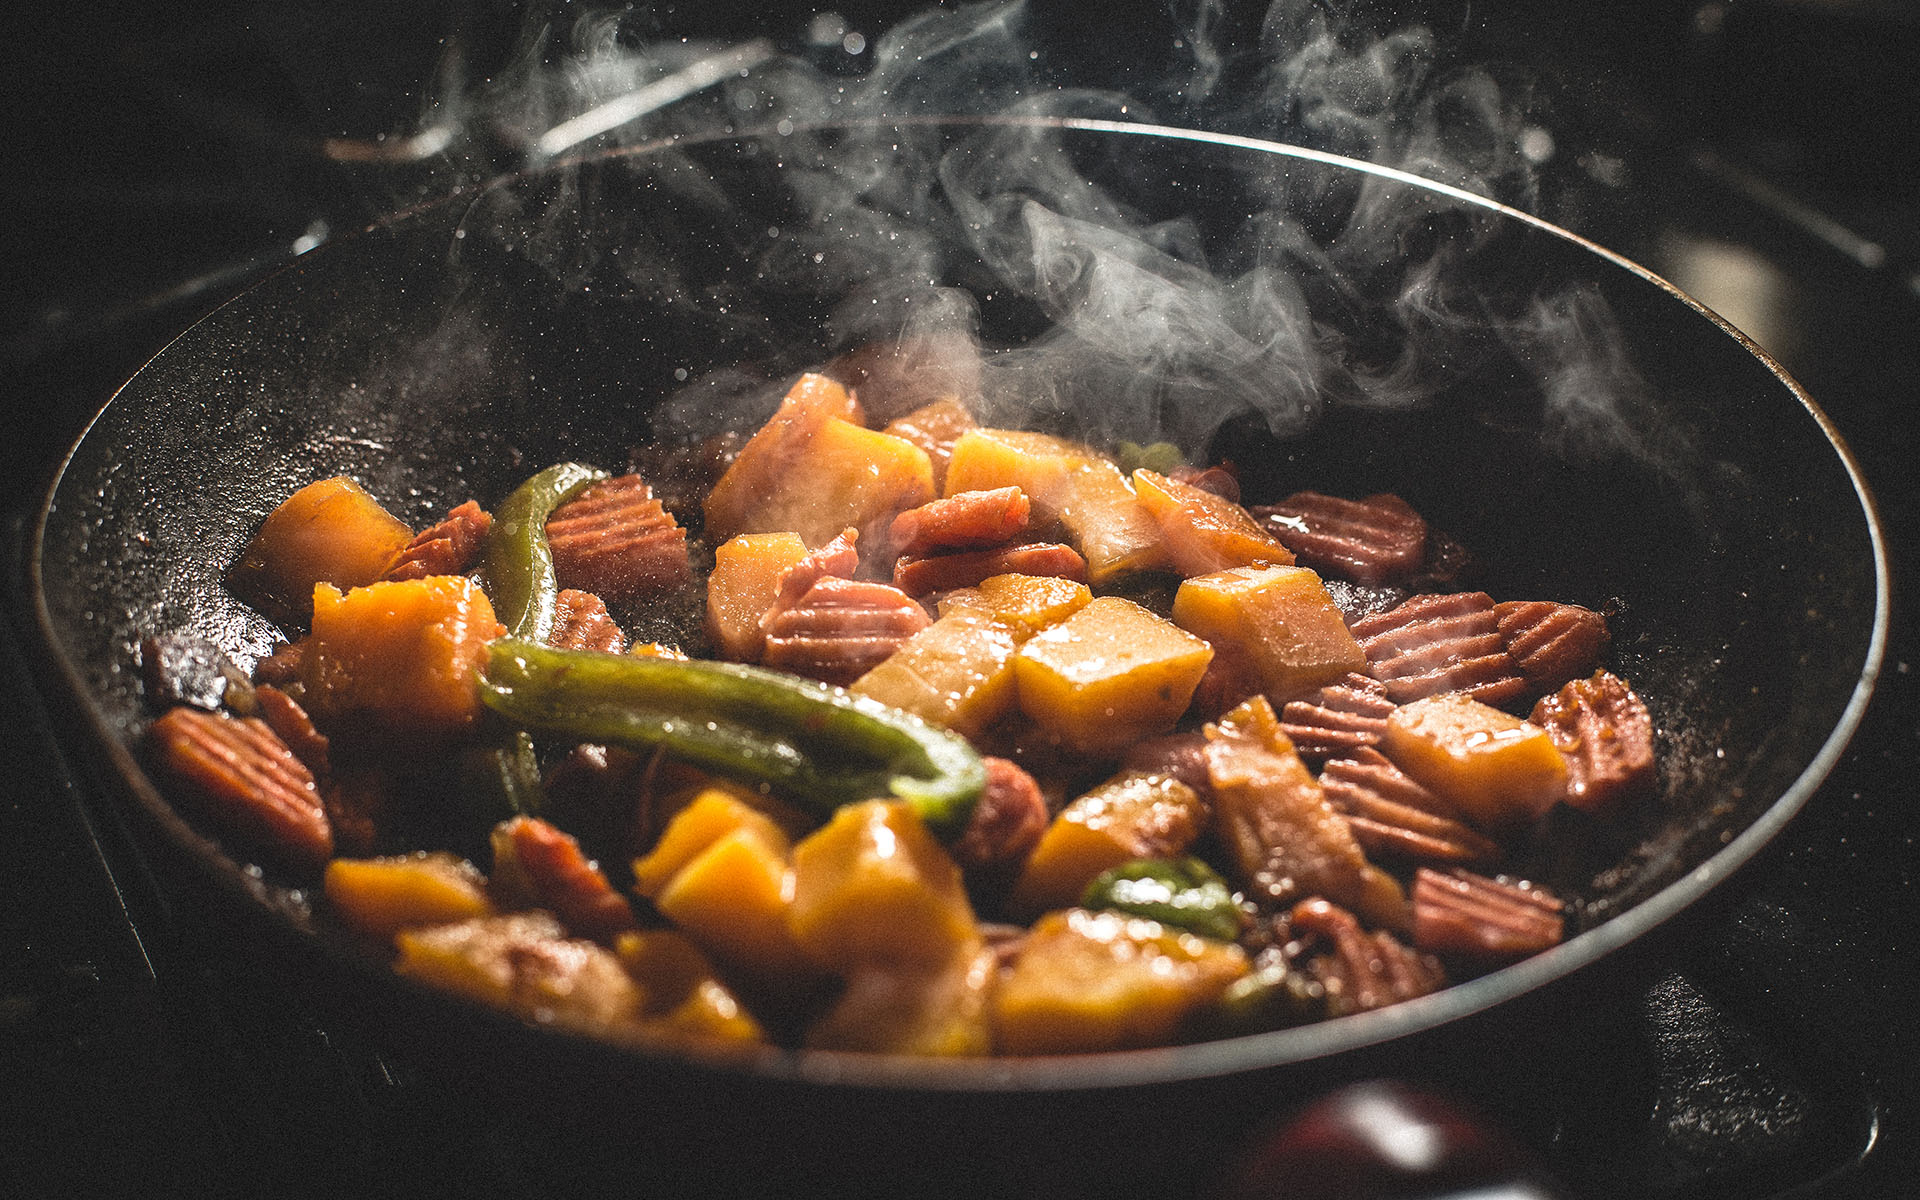
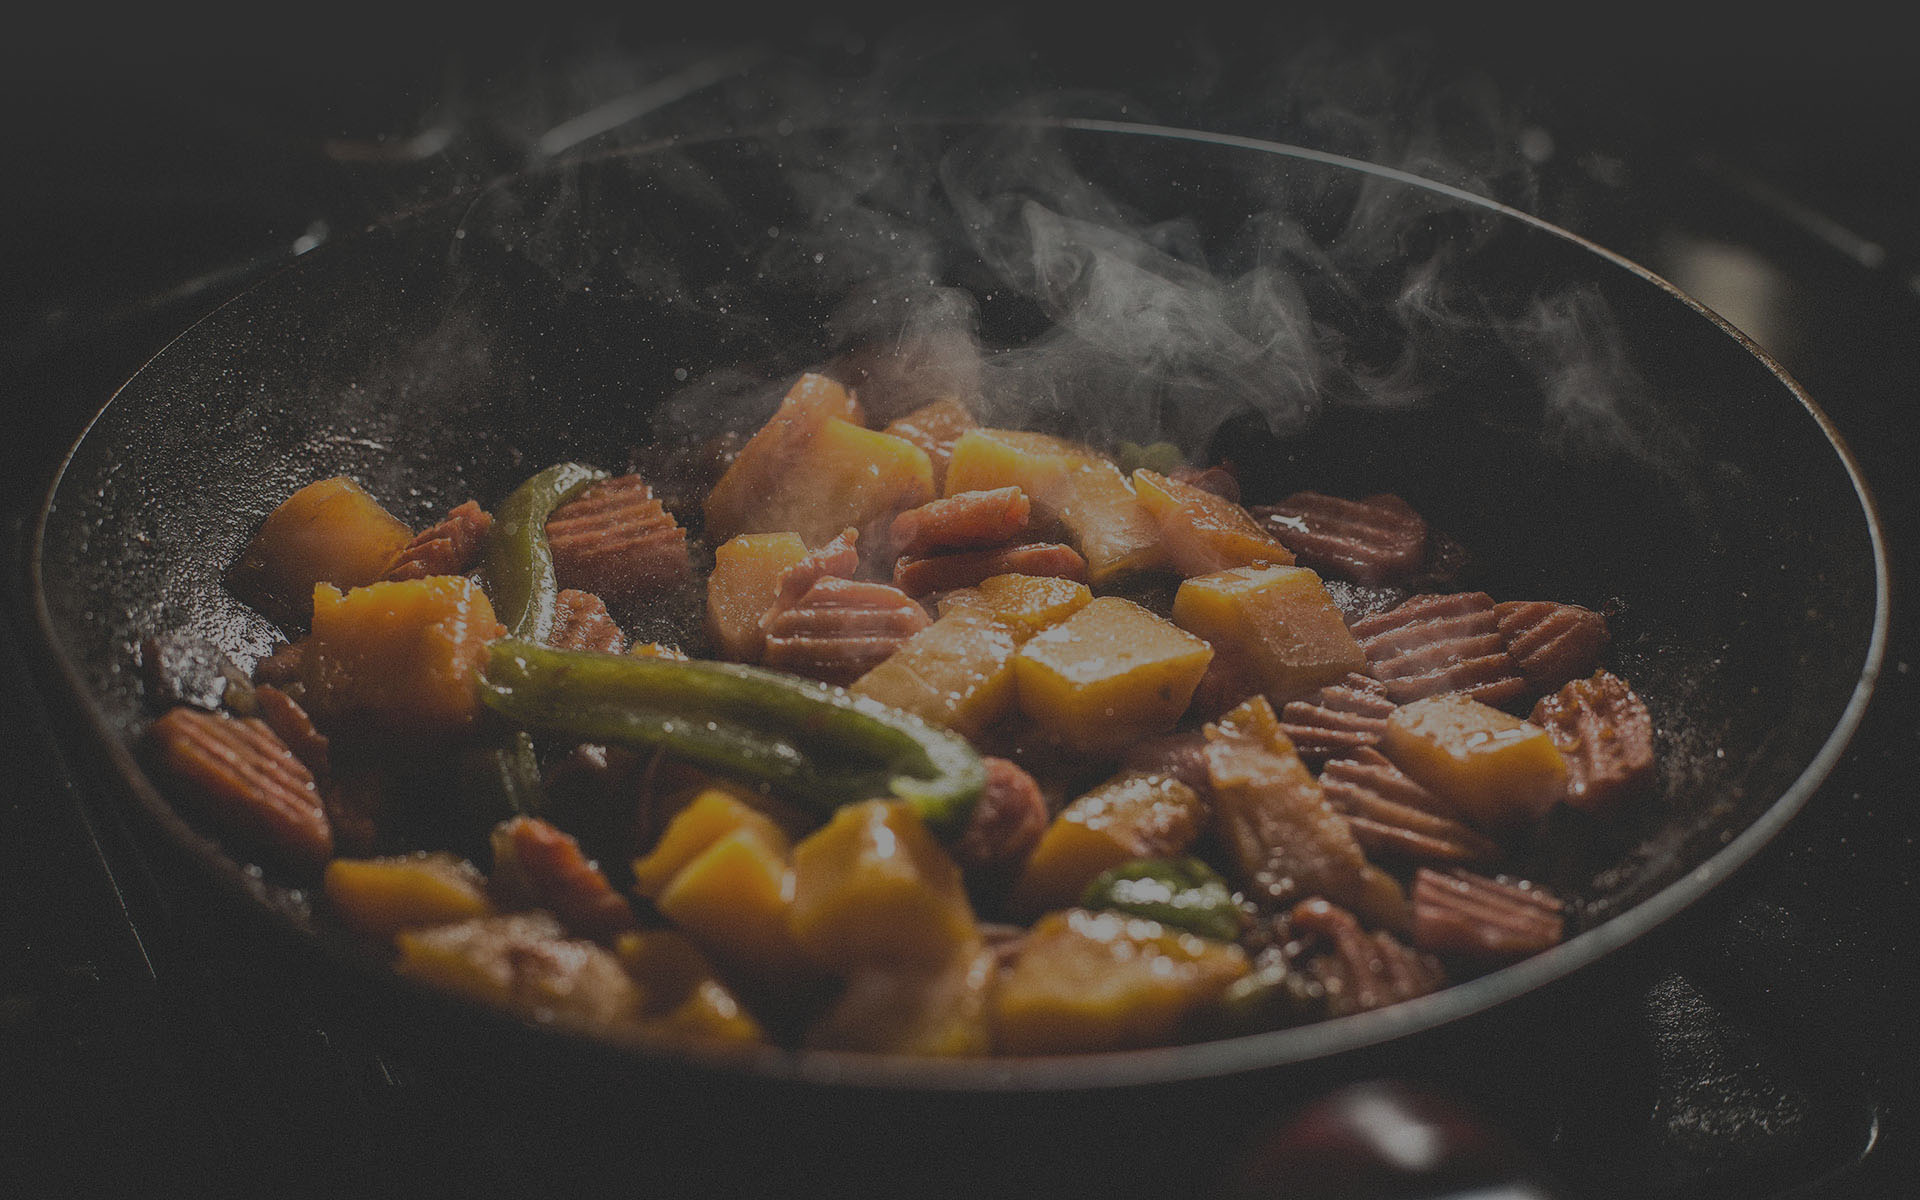
Made mobile a bit better, changed hero images

diff --git a/locations.html b/locations.html
@@ -13,7 +13,7 @@
 <body>
 
   <header>
-    <section class="wrap">
+    <section class="fullheader wrap">
       <a href="index.html"><img src="images/logo.png" alt="Logo" /></a>
       <nav class="mainnav">
         <ul>
@@ -31,9 +31,8 @@
     </section>
   </header>
 
-  <section class="hero locationshero" id="herosection"></section>
-  <section class="herotext">
-    <div class="wrap">
+  <section class="hero locationshero" id="herosection">
+    <div class="herocontent">
       <h1>
         FOUR LOCATIONS<br/>
         TO SERVE YOU BETTER
@@ -51,122 +50,124 @@
     </div>
   </section>
 
-  <section class="locations__blank" id="locations">
-    <div class="wrap">
-      <div class="locations__wrap">
-        <article>
-          <h3>NELSON</h3>
-          <p>604-123-4567</p>
-          <aside>
-            123 Madeup Road
-            <br/> Vancouver, BC
-            <br/> V1V 1V1
-          </aside>
-
-        </article>
-        <ul>
-          <li>Sunday: 11am-11pm</li>
-          <li>Monday: 11am-11pm</li>
-          <li>Tuesday: 11am-11pm</li>
-          <li>Wednesday: 11am-11pm</li>
-          <li>Thursday: 11am-11pm</li>
-          <li>Friday: 11am-11pm</li>
-          <li>Saturday: 11am-11pm</li>
-        </ul>
-        <iframe src="//www.google.com/maps/embed/v1/place?q=Guu%20Garden,Nelson%20Rd,%20Canada
-      &zoom=17
-      &key=AIzaSyDaYr01fLlKVK9v207OUpxNc0Ka22CamBM">
-        </iframe>
+  <section id="locations">
+    <div class="locations__blank">
+      <div class="wrap">
+        <div class="locations__wrap">
+          <article>
+            <h3>NELSON</h3>
+            <p>604-123-4567</p>
+            <aside>
+              123 Madeup Road
+              <br/> Vancouver, BC
+              <br/> V1V 1V1
+            </aside>
+    
+          </article>
+          <ul>
+            <li>Sunday: 11am-11pm</li>
+            <li>Monday: 11am-11pm</li>
+            <li>Tuesday: 11am-11pm</li>
+            <li>Wednesday: 11am-11pm</li>
+            <li>Thursday: 11am-11pm</li>
+            <li>Friday: 11am-11pm</li>
+            <li>Saturday: 11am-11pm</li>
+          </ul>
+          <iframe src="//www.google.com/maps/embed/v1/place?q=Guu%20Garden,Nelson%20Rd,%20Canada
+        &zoom=17
+        &key=AIzaSyDaYr01fLlKVK9v207OUpxNc0Ka22CamBM">
+          </iframe>
+        </div>
       </div>
     </div>
-  </section>
-
-  <section class="locations__grey">
-    <div class="wrap">
-      <div class="locations__wrap">
-        <article>
-          <h3>NELSON</h3>
-          <p>604-123-4567</p>
-          <aside>
-            123 Madeup Road
-            <br/> Vancouver, BC
-            <br/> V1V 1V1
-          </aside>
-
-        </article>
-        <ul>
-          <li>Sunday: 11am-11pm</li>
-          <li>Monday: 11am-11pm</li>
-          <li>Tuesday: 11am-11pm</li>
-          <li>Wednesday: 11am-11pm</li>
-          <li>Thursday: 11am-11pm</li>
-          <li>Friday: 11am-11pm</li>
-          <li>Saturday: 11am-11pm</li>
-        </ul>
-        <iframe src="//www.google.com/maps/embed/v1/place?q=Guu%20Garden,Nelson%20Rd,%20Canada
-      &zoom=17
-      &key=AIzaSyDaYr01fLlKVK9v207OUpxNc0Ka22CamBM">
-        </iframe>
+    
+    <div class="locations__grey">
+      <div class="wrap">
+        <div class="locations__wrap">
+          <article>
+            <h3>NELSON</h3>
+            <p>604-123-4567</p>
+            <aside>
+              123 Madeup Road
+              <br/> Vancouver, BC
+              <br/> V1V 1V1
+            </aside>
+    
+          </article>
+          <ul>
+            <li>Sunday: 11am-11pm</li>
+            <li>Monday: 11am-11pm</li>
+            <li>Tuesday: 11am-11pm</li>
+            <li>Wednesday: 11am-11pm</li>
+            <li>Thursday: 11am-11pm</li>
+            <li>Friday: 11am-11pm</li>
+            <li>Saturday: 11am-11pm</li>
+          </ul>
+          <iframe src="//www.google.com/maps/embed/v1/place?q=Guu%20Garden,Nelson%20Rd,%20Canada
+        &zoom=17
+        &key=AIzaSyDaYr01fLlKVK9v207OUpxNc0Ka22CamBM">
+          </iframe>
+        </div>
       </div>
     </div>
-  </section>
-
-  <section class="locations__blank">
-    <div class="wrap">
-      <div class="locations__wrap">
-        <article>
-          <h3>NELSON</h3>
-          <p>604-123-4567</p>
-          <aside>
-            123 Madeup Road
-            <br/> Vancouver, BC
-            <br/> V1V 1V1
-          </aside>
-
-        </article>
-        <ul>
-          <li>Sunday: 11am-11pm</li>
-          <li>Monday: 11am-11pm</li>
-          <li>Tuesday: 11am-11pm</li>
-          <li>Wednesday: 11am-11pm</li>
-          <li>Thursday: 11am-11pm</li>
-          <li>Friday: 11am-11pm</li>
-          <li>Saturday: 11am-11pm</li>
-        </ul>
-        <iframe src="//www.google.com/maps/embed/v1/place?q=Guu%20Garden,Nelson%20Rd,%20Canada
-      &zoom=17
-      &key=AIzaSyDaYr01fLlKVK9v207OUpxNc0Ka22CamBM">
-        </iframe>
+    
+    <div class="locations__blank">
+      <div class="wrap">
+        <div class="locations__wrap">
+          <article>
+            <h3>NELSON</h3>
+            <p>604-123-4567</p>
+            <aside>
+              123 Madeup Road
+              <br/> Vancouver, BC
+              <br/> V1V 1V1
+            </aside>
+    
+          </article>
+          <ul>
+            <li>Sunday: 11am-11pm</li>
+            <li>Monday: 11am-11pm</li>
+            <li>Tuesday: 11am-11pm</li>
+            <li>Wednesday: 11am-11pm</li>
+            <li>Thursday: 11am-11pm</li>
+            <li>Friday: 11am-11pm</li>
+            <li>Saturday: 11am-11pm</li>
+          </ul>
+          <iframe src="//www.google.com/maps/embed/v1/place?q=Guu%20Garden,Nelson%20Rd,%20Canada
+        &zoom=17
+        &key=AIzaSyDaYr01fLlKVK9v207OUpxNc0Ka22CamBM">
+          </iframe>
+        </div>
       </div>
     </div>
-  </section>
-
-  <section class="locations__grey">
-    <div class="wrap">
-      <div class="locations__wrap">
-        <article>
-          <h3>NELSON</h3>
-          <p>604-123-4567</p>
-          <aside>
-            123 Madeup Road
-            <br/> Vancouver, BC
-            <br/> V1V 1V1
-          </aside>
-
-        </article>
-        <ul>
-          <li>Sunday: 11am-11pm</li>
-          <li>Monday: 11am-11pm</li>
-          <li>Tuesday: 11am-11pm</li>
-          <li>Wednesday: 11am-11pm</li>
-          <li>Thursday: 11am-11pm</li>
-          <li>Friday: 11am-11pm</li>
-          <li>Saturday: 11am-11pm</li>
-        </ul>
-        <iframe src="//www.google.com/maps/embed/v1/place?q=Guu%20Garden,Nelson%20Rd,%20Canada
-      &zoom=17
-      &key=AIzaSyDaYr01fLlKVK9v207OUpxNc0Ka22CamBM">
-        </iframe>
+    
+    <div class="locations__grey">
+      <div class="wrap">
+        <div class="locations__wrap">
+          <article>
+            <h3>NELSON</h3>
+            <p>604-123-4567</p>
+            <aside>
+              123 Madeup Road
+              <br/> Vancouver, BC
+              <br/> V1V 1V1
+            </aside>
+    
+          </article>
+          <ul>
+            <li>Sunday: 11am-11pm</li>
+            <li>Monday: 11am-11pm</li>
+            <li>Tuesday: 11am-11pm</li>
+            <li>Wednesday: 11am-11pm</li>
+            <li>Thursday: 11am-11pm</li>
+            <li>Friday: 11am-11pm</li>
+            <li>Saturday: 11am-11pm</li>
+          </ul>
+          <iframe src="//www.google.com/maps/embed/v1/place?q=Guu%20Garden,Nelson%20Rd,%20Canada
+        &zoom=17
+        &key=AIzaSyDaYr01fLlKVK9v207OUpxNc0Ka22CamBM">
+          </iframe>
+        </div>
       </div>
     </div>
   </section>

diff --git a/css/style.css b/css/style.css
@@ -133,22 +133,22 @@ header a:hover {
 /* HERO */
 
 .hero {
-  background: url(../images/hero.jpg) no-repeat center center fixed;
+  background: url(../images/hero.jpg) no-repeat center center;
   background-size: cover;
-  height: 800px;
-  opacity: 0.5;
+  height: 100vh;
 }
 
-.herotext {
+.herocontent {
   position: absolute;
   top: 50%;
   left: 0;
   right: 0;
   transform: translateY(-50%);
+  text-align: center;
   margin: 0 auto;
 }
 
-.herotext .wrap {
+.hero .wrap {
   flex-direction: column;
 }
 
@@ -159,7 +159,7 @@ header a:hover {
 .herobutton {
   width: 300px;
   padding: 15px 0;
-  margin-top: 20px;
+  margin: 20px auto;
   border: solid white 3px;
   transition: 0.2s;
   color: white;
@@ -170,12 +170,12 @@ header a:hover {
   color: #448C58;
 }
 
+
 /* LOCATIONS */
 
 .locationshero {
   background: url(../images/locations.jpg) no-repeat center center;
   background-size: cover;
-  opacity: 0.3;
 }
 
 .herotext a:hover {
@@ -287,7 +287,13 @@ footer a:hover {
   .wrap {
     width: 90%;
   }
+}
+
+@media screen and (max-width: 980px) {
   
+  .locations__wrap {
+    width: 100%;
+  }
 }
 
 @media screen and (max-width: 765px) {
@@ -304,7 +310,7 @@ footer a:hover {
     display: none;
   }
   
-  header  {
+  header {
     margin: 0 auto;
   }
   
@@ -313,11 +319,15 @@ footer a:hover {
   }
   
   .locations__wrap {
-    width: 100%;
+    flex-direction: column;
+  }
+  
+  #locations iframe {
+    width: 300px;
+    margin: 0 auto;
   }
   
   .mobileheader .herobutton {
     margin: 20px auto;
   }
-  
 }

diff --git a/index.html b/index.html
@@ -34,21 +34,36 @@
     <section class="mobileheader wrap">
       <nav class="mainnav">
         <ul>
-          <li><a href="locations.html"><div class="herobutton">LOCATIONS</div></a></li>
-          <li><a href="menu.html"><div class="herobutton">MENU</div></a></li>
-          <li><a href="news.html"><div class="herobutton">NEWS</div></a></li>
-          <li><a href="about.html"><div class="herobutton">ABOUT</div></a></li>
+          <li><img src="images/logo.png" alt="Logo"></li>
+          <li>
+            <a href="locations.html">
+              <div class="herobutton">LOCATIONS</div>
+            </a>
+          </li>
+          <li>
+            <a href="menu.html">
+              <div class="herobutton">MENU</div>
+            </a>
+          </li>
+          <li>
+            <a href="news.html">
+              <div class="herobutton">NEWS</div>
+            </a>
+          </li>
+          <li>
+            <a href="about.html">
+              <div class="herobutton">ABOUT</div>
+            </a>
+          </li>
         </ul>
       </nav>
     </section>
   </header>
 
-  <section class="hero"></section>
-
-  <section class="herotext">
-    <div class="wrap">
-      <h1>JAPANESE CULTURE<br/>WITH A CANADIAN TWIST</h1></div>
-    <img src="images/logo.png" alt="Logo">
+  <section class="hero">
+    <div class="herocontent">
+      <h1>JAPANESE CULTURE<br/>WITH A CANADIAN TWIST</h1>
+    </div>
   </section>
 
   <script src="js/jquery.slicknav.min.js" type="text/javascript"></script>
